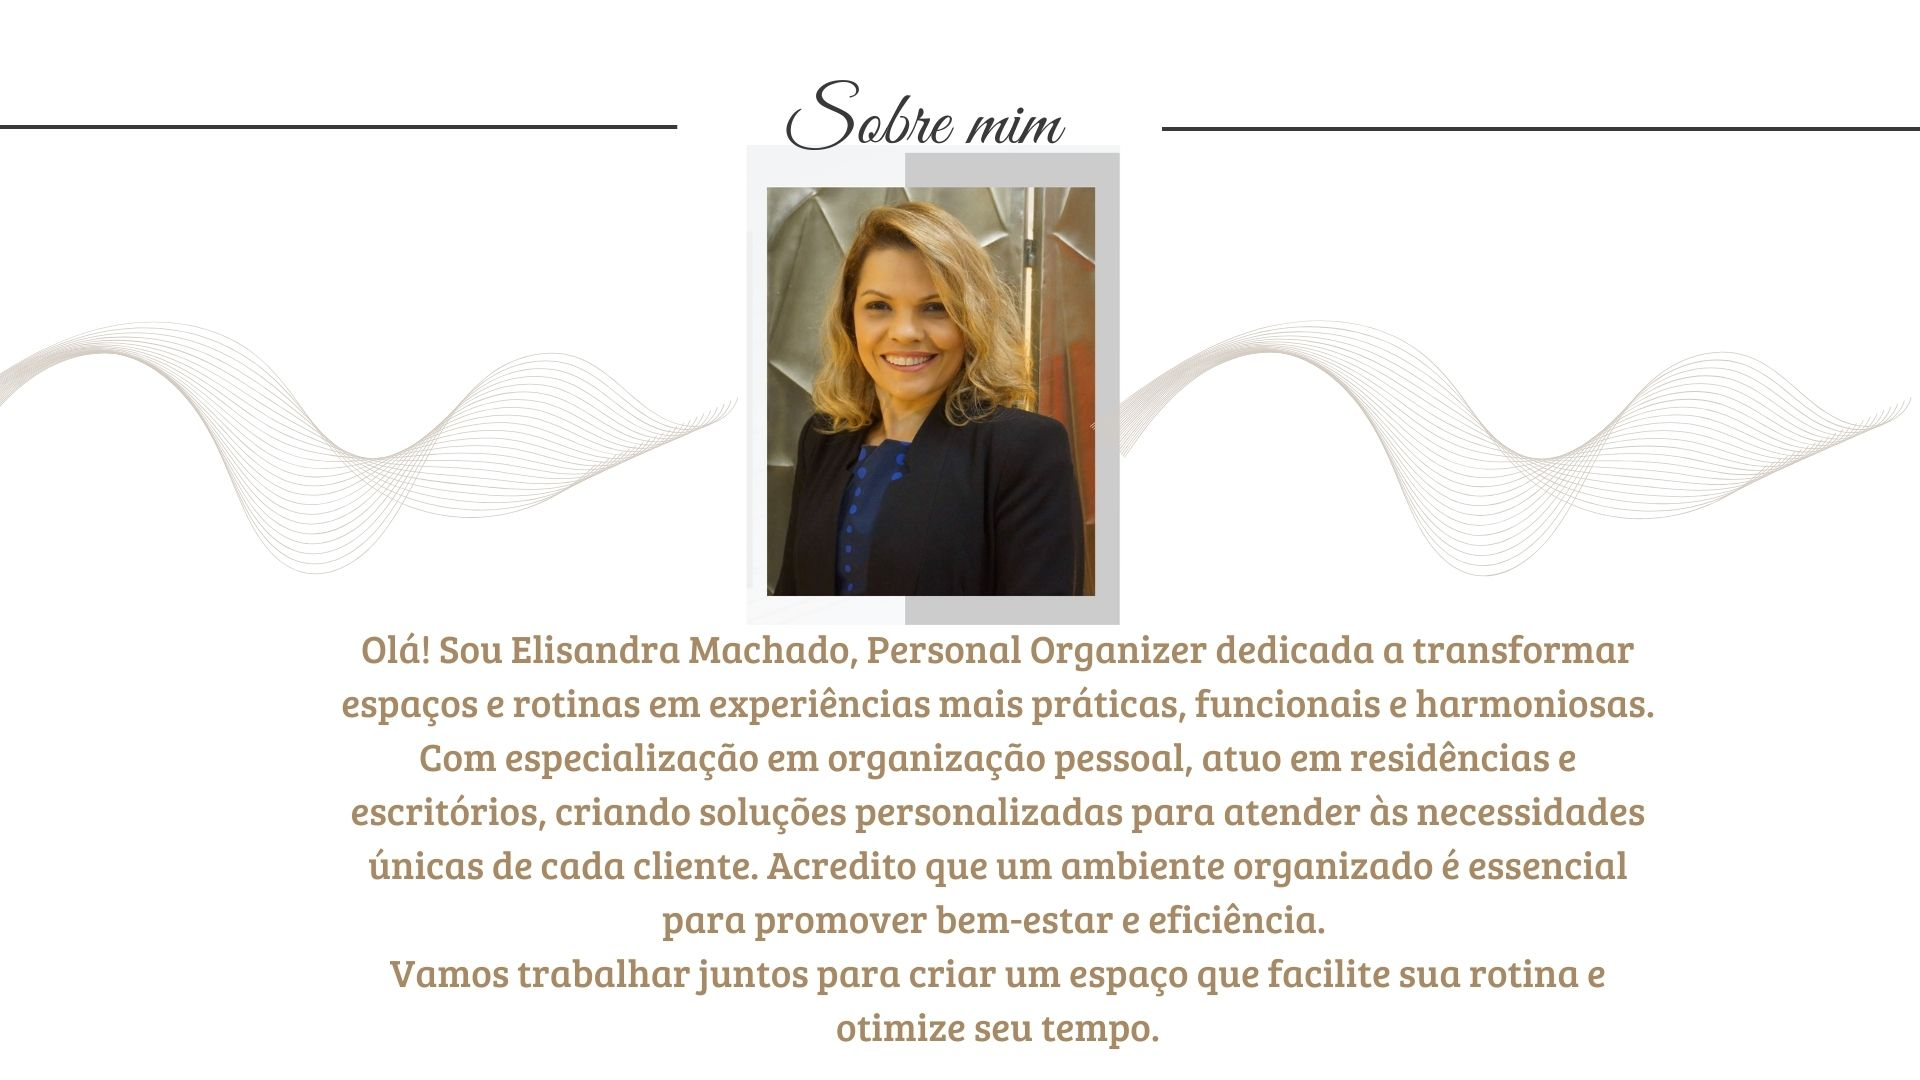
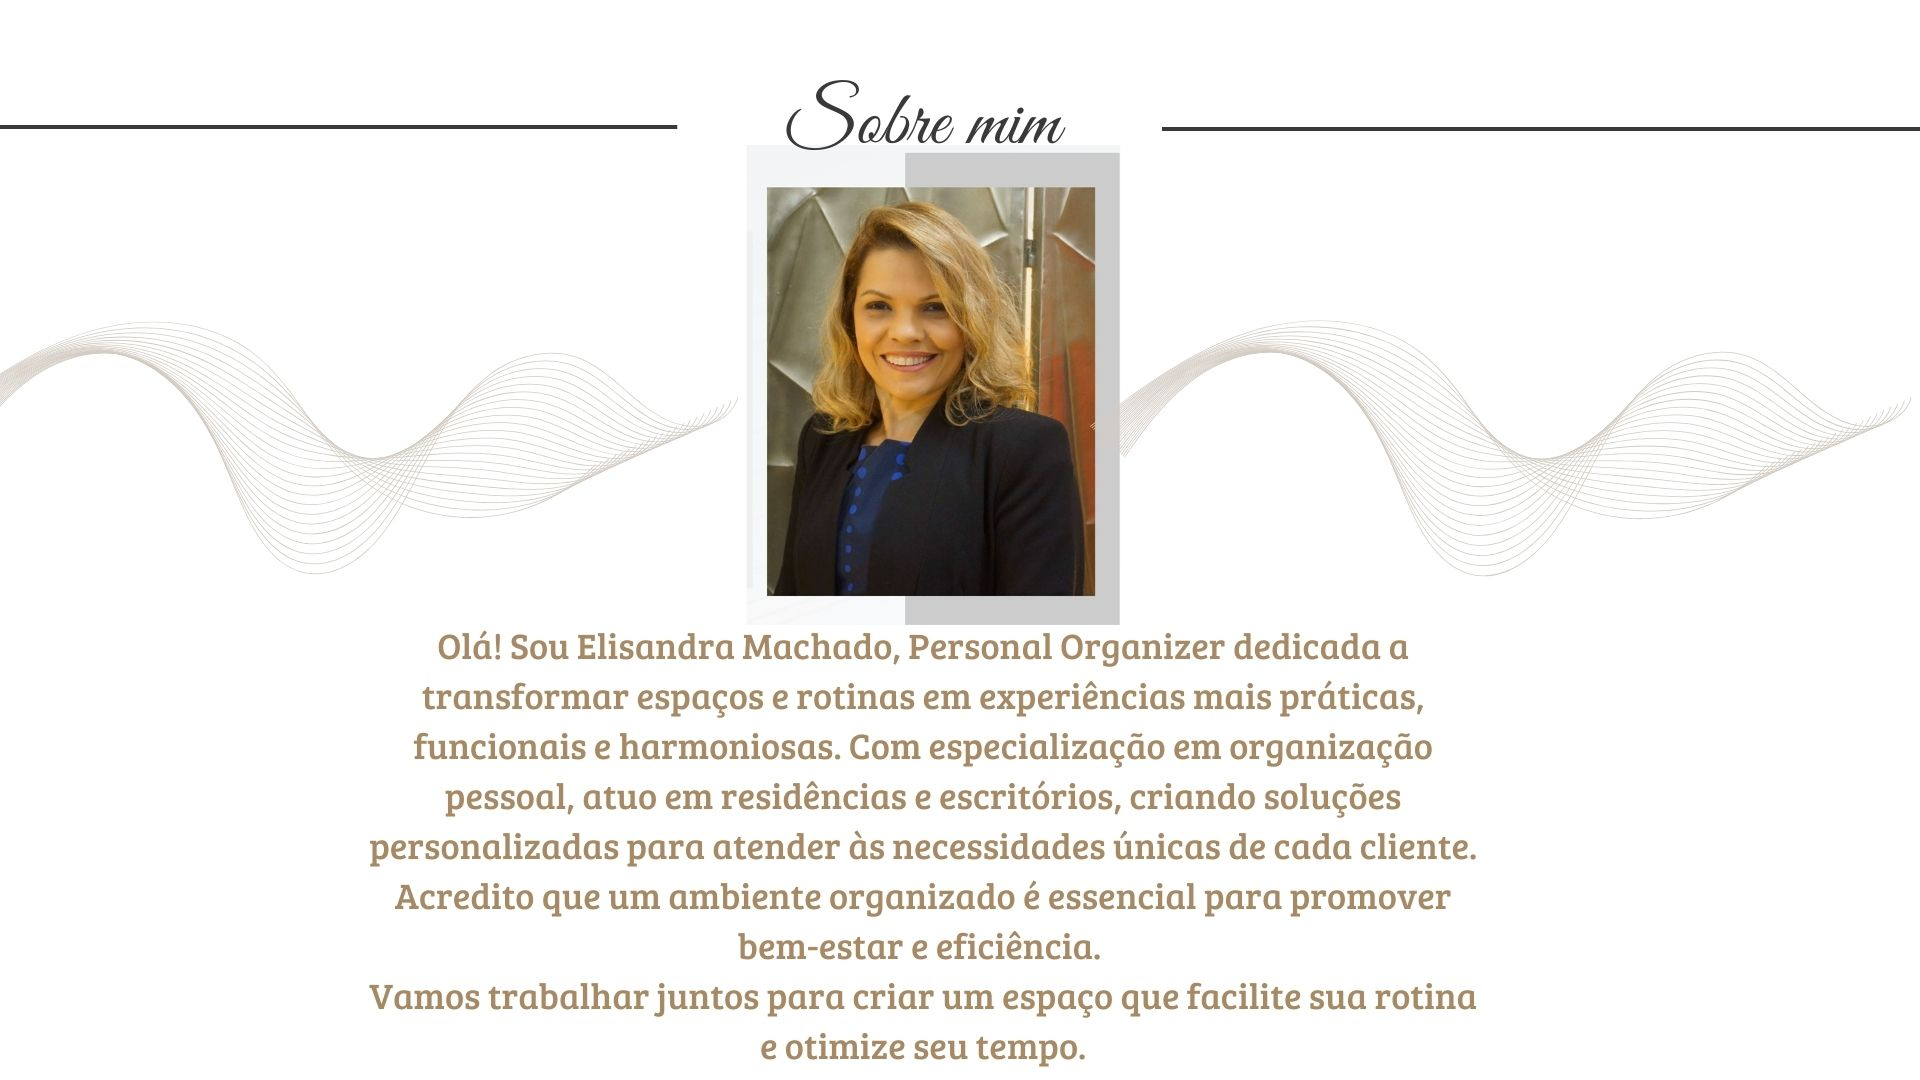
Mudanças na sessão sobre

Changed region(s): [[0.1562, 0.5806, 0.875, 1.0]]

diff --git a/main.html b/main.html
@@ -4,7 +4,7 @@
   <meta charset="UTF-8">
   <!-- FORÇA O LAYOUT DE 1200PX E UM ZOOM INICIAL DE 0.3 (30%) NO CELULAR -->
   <meta name="viewport" content="width=1200, initial-scale=0.4, maximum-scale=2, user-scalable=yes">
-  <title>Meu Portfólio</title>
+  <title>Sandrinha Personal Organizer</title>
   <link href="https://fonts.googleapis.com/css2?family=Pinyon+Script&display=swap" rel="stylesheet">
   <link href="https://fonts.googleapis.com/css2?family=Bree+Serif&display=swap" rel="stylesheet">
   <link href="https://fonts.googleapis.com/css2?family=Adam+Script&display=swap" rel="stylesheet">

diff --git a/main.css b/main.css
@@ -396,7 +396,7 @@ header#menu {
 
 /* Seção Serviços */
 #servicos {
-    min-height: 920px;
+    min-height: 900px;
     background: url('images/servicos-background.jpg') no-repeat center center/cover;
     background-size: 100% auto; 
     display: flex;
@@ -408,7 +408,7 @@ header#menu {
 
 /* Seção Investir */
 #investir {
-    min-height: 700px;
+    min-height: 720px;
     background: url('images/investimento-agenda.jpg') no-repeat center center/cover;
     background-size: 100% auto; 
     display: flex;
